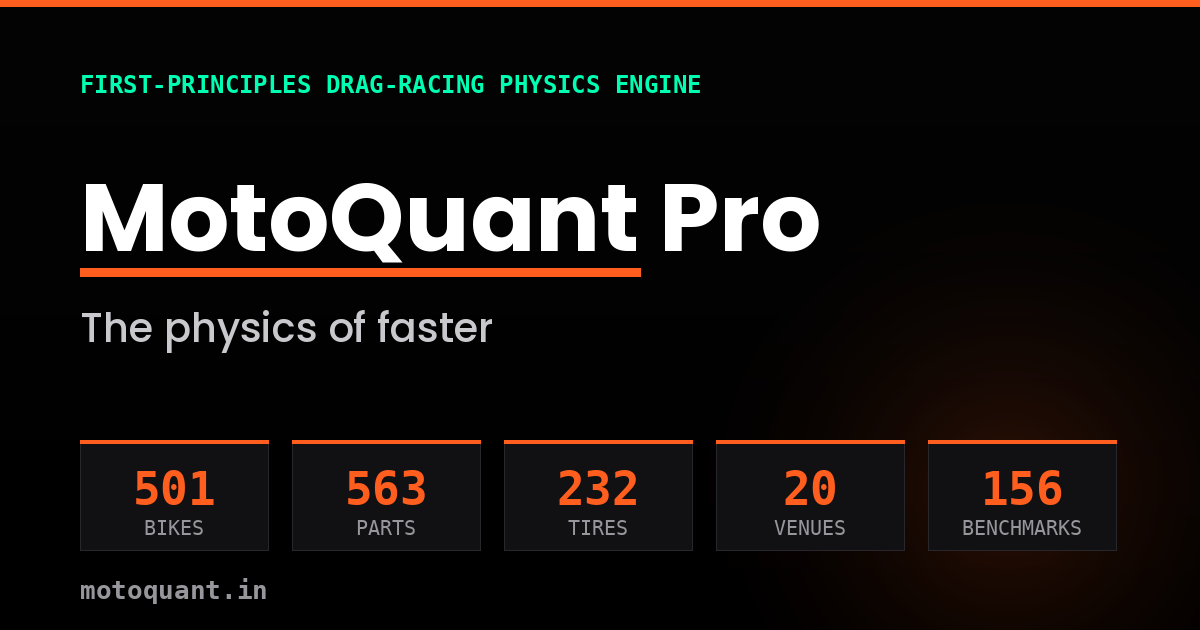
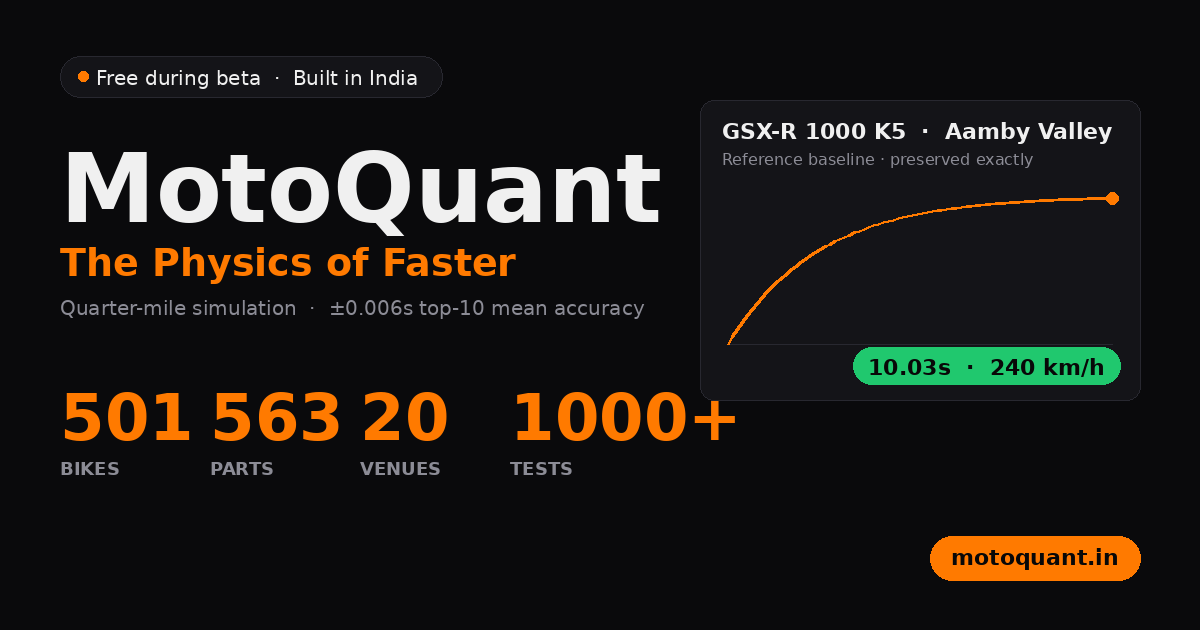
feat(web): commercial-rollout polish — 404/error pages, viral loop, honest OG card
- Branded not-found.js (red-light foul theme, routes lost visitors back into
  the product, Ctrl+K tip) and error.js boundary (honest retry instead of a
  white screen) — the two flagship must-haves that were still Next defaults.
- Skip-to-content link in the root layout + id=main on 13 pages (keyboard/
  screen-reader users skip the fixed chrome in one Tab).
- Leaderboard cold-start: an empty board now shows the three house reference
  sims (the pinned K5/R1/Hayabusa baselines, honestly labeled) with a
  'take P1 from the house' CTA — a first visitor never sees a dead room.
  The first real saved run replaces them (e2e-verified).
- Leaderboard rows now LINK to their public /r/[id] timeslips — the share
  loop previously started only from the save flow; the board is the natural
  entry. Full loop e2e-verified in a browser: quick sim -> Save this run ->
  board row -> public timeslip at /r/1.
- OG share card regenerated with two claim fixes in the generator: the
  'Open Source' pill (false — deliberately hosted-only to protect the IP)
  is now 'Free during beta · Built in India', and the stale ±0.032s top-10
  fallback is the published ±0.006s.

Claude-Session: https://claude.ai/code/session_0134aVjjQdNhGrqEnvho9TL2

diff --git a/web/app/leaderboard/page.js b/web/app/leaderboard/page.js
@@ -23,6 +23,16 @@ import ScoreboardDigits from '../../components/ScoreboardDigits';
 import { Skeleton } from '../../components/Skeleton';
 import { API_URL } from '../../lib/api';
 
+// House reference runs — shown ONLY when the board has no saved runs yet, so
+// a first visitor never sees a dead room. These are the three pinned
+// reference-bike baselines (the same numbers in the footer strip), honestly
+// labeled as the house's own sims. The first real saved run replaces them.
+const HOUSE_RUNS = [
+  { key: 'k5', bike: 'Suzuki GSX-R 1000 K5', year: 2005, et: '10.033', trap: '239.8 km/h' },
+  { key: 'r1', bike: 'Yamaha YZF-R1 4C8', year: 2007, et: '10.286', trap: '236.1 km/h' },
+  { key: 'busa', bike: 'Suzuki Hayabusa Gen1', year: 1999, et: '10.471', trap: '243.0 km/h' },
+];
+
 function fmtDate(iso) {
   if (!iso) return '—';
   try {
@@ -69,7 +79,7 @@ export default function LeaderboardPage() {
   }, [venueId, venues]);
 
   return (
-    <main className="min-h-screen bg-black text-white">
+    <main id="main" className="min-h-screen bg-black text-white">
       <SiteNav />
       <PageHero
         kicker="// leaderboard: saved runs sorted by ET · venue filter armed"
@@ -131,50 +141,89 @@ export default function LeaderboardPage() {
           )}
 
           {!error && rows !== null && rows.length === 0 && (
-            <div className="card text-center py-16 px-6">
+            <div>
               <p className="label-mono text-[11px] mb-3">
-                {venueName} · no saved runs yet
+                {venueName} · no saved runs yet — house reference sims hold the board
               </p>
-              <p className="text-white/70 mb-6">
-                The board is empty — first run takes P1.
-              </p>
-              <Link href="/simulator" className="btn-primary">
-                Run a simulation
-              </Link>
+              <ol className="space-y-2" aria-label="House reference runs">
+                {HOUSE_RUNS.map((r, i) => (
+                  <li
+                    key={r.key}
+                    className={`card flex items-center gap-4 px-4 py-3 opacity-90 ${
+                      i === 0 ? 'border-brand-orange/40 bg-brand-orange/[0.06]' : ''
+                    }`}
+                  >
+                    <span className="w-8 shrink-0 font-mono text-sm text-white/40 text-right">
+                      {i === 0 ? (
+                        <Trophy size={16} className="inline text-brand-orange" aria-label="P1" />
+                      ) : (
+                        `P${i + 1}`
+                      )}
+                    </span>
+                    <div className="min-w-0 flex-1">
+                      <p className="truncate text-sm font-medium">
+                        {r.bike}
+                        <span className="text-white/40"> · {r.year}</span>
+                      </p>
+                      <p className="font-mono text-[10px] tracking-[0.2em] uppercase text-white/35">
+                        MotoQuant reference sim · Aamby Valley · stock
+                      </p>
+                    </div>
+                    <div className="shrink-0 text-right">
+                      <ScoreboardDigits value={r.et} h={22} />
+                      <p className="font-mono text-[10px] tracking-[0.2em] text-white/40 mt-1">
+                        {r.trap}
+                      </p>
+                    </div>
+                  </li>
+                ))}
+              </ol>
+              <div className="card mt-4 text-center py-10 px-6">
+                <p className="text-white/70 mb-5">
+                  Take P1 from the house — run a sim and save it to the board.
+                </p>
+                <Link href="/simulator" className="btn-primary">
+                  Run a simulation
+                </Link>
+              </div>
             </div>
           )}
 
           {!error && rows !== null && rows.length > 0 && (
             <ol className="space-y-2">
               {rows.map((r, i) => (
-                <li
-                  key={r.id}
-                  className={`card card-hover flex items-center gap-4 px-4 py-3 ${
-                    i === 0 ? 'border-brand-orange/40 bg-brand-orange/[0.06]' : ''
-                  }`}
-                >
-                  <span className="w-8 shrink-0 font-mono text-sm text-white/40 text-right">
-                    {i === 0 ? (
-                      <Trophy size={16} className="inline text-brand-orange" aria-label="P1" />
-                    ) : (
-                      `P${i + 1}`
-                    )}
-                  </span>
-                  <div className="min-w-0 flex-1">
-                    <p className="truncate text-sm font-medium">
-                      {(r.manufacturer || '—') + ' ' + (r.model || '')}
-                      {r.year ? <span className="text-white/40"> · {r.year}</span> : null}
-                    </p>
-                    <p className="font-mono text-[10px] tracking-[0.2em] uppercase text-white/35">
-                      {r.venue || 'venue —'} · {fmtDate(r.created_at)}
-                    </p>
-                  </div>
-                  <div className="shrink-0 text-right">
-                    <ScoreboardDigits value={Number(r.et_quarter_s).toFixed(3)} h={22} />
-                    <p className="font-mono text-[10px] tracking-[0.2em] text-white/40 mt-1">
-                      {r.trap_speed_kmh ? `${Number(r.trap_speed_kmh).toFixed(1)} km/h` : ''}
-                    </p>
-                  </div>
+                <li key={r.id}>
+                  {/* Whole row links to the run's public timeslip — the share
+                      loop starts here, not just from the save flow. */}
+                  <Link
+                    href={`/r/${r.id}`}
+                    className={`card card-hover flex items-center gap-4 px-4 py-3 ${
+                      i === 0 ? 'border-brand-orange/40 bg-brand-orange/[0.06]' : ''
+                    }`}
+                  >
+                    <span className="w-8 shrink-0 font-mono text-sm text-white/40 text-right">
+                      {i === 0 ? (
+                        <Trophy size={16} className="inline text-brand-orange" aria-label="P1" />
+                      ) : (
+                        `P${i + 1}`
+                      )}
+                    </span>
+                    <div className="min-w-0 flex-1">
+                      <p className="truncate text-sm font-medium">
+                        {(r.manufacturer || '—') + ' ' + (r.model || '')}
+                        {r.year ? <span className="text-white/40"> · {r.year}</span> : null}
+                      </p>
+                      <p className="font-mono text-[10px] tracking-[0.2em] uppercase text-white/35">
+                        {r.venue || 'venue —'} · {fmtDate(r.created_at)} · view timeslip →
+                      </p>
+                    </div>
+                    <div className="shrink-0 text-right">
+                      <ScoreboardDigits value={Number(r.et_quarter_s).toFixed(3)} h={22} />
+                      <p className="font-mono text-[10px] tracking-[0.2em] text-white/40 mt-1">
+                        {r.trap_speed_kmh ? `${Number(r.trap_speed_kmh).toFixed(1)} km/h` : ''}
+                      </p>
+                    </div>
+                  </Link>
                 </li>
               ))}
             </ol>

diff --git a/web/app/not-found.js b/web/app/not-found.js
@@ -1,0 +1,55 @@
+import Link from 'next/link';
+import SiteNav from '../components/SiteNav';
+import SiteFooter from '../components/SiteFooter';
+import CodeComment from '../components/CodeComment';
+
+export const metadata = {
+  title: '404 — Off the racing line | MotoQuant Pro',
+  robots: { index: false },
+};
+
+/**
+ * Branded 404 (Cockpit v3). A red-light foul, not a dead end: the page
+ * routes lost visitors straight back into the product. Server component —
+ * zero client JS beyond the shared chrome.
+ */
+export default function NotFound() {
+  return (
+    <div className="min-h-screen bg-black text-white antialiased flex flex-col">
+      <SiteNav />
+      <main className="flex-1 flex items-center justify-center px-6 pt-16">
+        <div className="max-w-xl w-full text-center py-24">
+          <CodeComment center>run aborted · page not staged</CodeComment>
+          <div className="mt-6 flex items-center justify-center gap-3" aria-hidden="true">
+            {/* foul lights — two red staging lamps */}
+            <span className="h-4 w-4 rounded-full bg-brand-red shadow-lamp-red" />
+            <span className="h-4 w-4 rounded-full bg-brand-red shadow-lamp-red" />
+          </div>
+          <h1 className="mt-6 font-display font-bold tracking-tight text-white">
+            <span className="block text-7xl md:text-8xl text-gradient-orange tabular-nums">404</span>
+            <span className="mt-3 block text-2xl md:text-3xl">Red light — this page fouled.</span>
+          </h1>
+          <p className="mt-4 text-white/60 leading-relaxed">
+            The URL you staged doesn&apos;t exist on this strip. Back the bike up
+            and pick a lane.
+          </p>
+          <div className="mt-8 flex flex-wrap items-center justify-center gap-3">
+            <Link href="/simulator" className="btn-primary">
+              Run the simulator
+            </Link>
+            <Link href="/bikes" className="btn-ghost">
+              Browse 501 bikes
+            </Link>
+            <Link href="/" className="btn-ghost">
+              Home
+            </Link>
+          </div>
+          <p className="label-mono mt-10">
+            tip: press Ctrl+K anywhere to jump to any page or bike
+          </p>
+        </div>
+      </main>
+      <SiteFooter />
+    </div>
+  );
+}

diff --git a/web/app/error.js b/web/app/error.js
@@ -1,0 +1,39 @@
+'use client';
+
+/**
+ * Route error boundary (Cockpit v3). Catches render/runtime errors below
+ * the root layout and offers an honest retry instead of a white screen.
+ * Client component by Next.js convention (receives error + reset).
+ */
+
+import CodeComment from '../components/CodeComment';
+
+export default function Error({ error, reset }) {
+  return (
+    <div className="min-h-screen bg-black text-white antialiased flex items-center justify-center px-6">
+      <div className="max-w-lg w-full text-center py-24">
+        <CodeComment center>engine fault · telemetry interrupted</CodeComment>
+        <h1 className="mt-6 font-display font-bold tracking-tight text-3xl md:text-4xl">
+          Something broke mid-run.
+        </h1>
+        <p className="mt-4 text-white/60 leading-relaxed">
+          The page hit an unexpected error. Your data is fine — restart the run
+          or head back to the pits.
+        </p>
+        {process.env.NODE_ENV !== 'production' && error?.message && (
+          <p className="mt-4 rounded-xl border border-brand-red/30 bg-brand-red/10 px-4 py-3 text-left font-mono text-xs text-brand-red/90 break-words">
+            {String(error.message).slice(0, 300)}
+          </p>
+        )}
+        <div className="mt-8 flex flex-wrap items-center justify-center gap-3">
+          <button type="button" onClick={() => reset()} className="btn-primary">
+            Restart the run
+          </button>
+          <a href="/" className="btn-ghost">
+            Back to the pits
+          </a>
+        </div>
+      </div>
+    </div>
+  );
+}

diff --git a/web/app/layout.js b/web/app/layout.js
@@ -255,6 +255,15 @@ export default function RootLayout({ children }) {
         <link rel="sitemap" type="application/xml" href="/sitemap.xml" />
       </head>
       <body className="font-sans">
+        {/* Keyboard/screen-reader users skip the fixed chrome in one Tab. The
+            target id lives on each page's <main>; pages without one still get
+            harmless anchor behavior. */}
+        <a
+          href="#main"
+          className="sr-only focus:not-sr-only focus:fixed focus:left-4 focus:top-4 focus:z-[200] focus:rounded-xl focus:bg-brand-orange focus:px-4 focus:py-2 focus:font-display focus:text-sm focus:font-bold focus:text-black"
+        >
+          Skip to content
+        </a>
         {/* Three site-wide JSON-LD blocks. Keeping them in <body> (rather than
             <head>) is equivalent per the schema.org + Google guidance, and
             lets us render them as React children without <Script> wrappers. */}

diff --git a/web/app/blog/how-the-motoquant-physics-engine-works/page.js b/web/app/blog/how-the-motoquant-physics-engine-works/page.js
@@ -242,7 +242,7 @@ export default function Page() {
       <SiteNav />
       <script type="application/ld+json" dangerouslySetInnerHTML={{ __html: JSON.stringify(articleSchema) }} />
 
-      <main className="max-w-3xl mx-auto px-6 pt-32 pb-12">
+      <main id="main" className="max-w-3xl mx-auto px-6 pt-32 pb-12">
         <Link href="/blog" className="text-brand-accent text-sm font-mono mb-6 inline-block hover:text-brand-orange transition-colors">
           ← back to blog
         </Link>

diff --git a/web/app/login/page.js b/web/app/login/page.js
@@ -170,7 +170,7 @@ function LoginPageInner() {
   return (
     <div className="min-h-screen bg-black text-white">
       <SiteNav />
-      <main className="flex min-h-[calc(100vh-4rem)] items-center justify-center px-4 pt-20 pb-12">
+      <main id="main" className="flex min-h-[calc(100vh-4rem)] items-center justify-center px-4 pt-20 pb-12">
         <div className="relative w-full max-w-sm space-y-8">
           <div
             aria-hidden="true"

diff --git a/web/app/terms/page.js b/web/app/terms/page.js
@@ -28,7 +28,7 @@ export default function TermsPage() {
         <p className="label-mono">Last updated · 2 July 2026</p>
       </PageHero>
 
-      <main className="pt-10 pb-20 px-4 sm:px-6">
+      <main id="main" className="pt-10 pb-20 px-4 sm:px-6">
         <div className="mx-auto max-w-3xl">
         <p className="text-white/80 text-sm leading-relaxed">
           These Terms of Service ("Terms") govern your access to and use of MotoQuant Pro

diff --git a/web/app/privacy/page.js b/web/app/privacy/page.js
@@ -27,7 +27,7 @@ export default function PrivacyPage() {
         <p className="label-mono">Last updated · 24 April 2026</p>
       </PageHero>
 
-      <main className="pt-10 pb-20 px-4 sm:px-6">
+      <main id="main" className="pt-10 pb-20 px-4 sm:px-6">
         <div className="mx-auto max-w-3xl">
         <p className="text-white/80 text-sm leading-relaxed">
           MotoQuant Pro ("we", "us") is committed to protecting your personal data.

diff --git a/web/app/blog/page.js b/web/app/blog/page.js
@@ -754,7 +754,7 @@ export default function BlogIndexPage() {
         sub="Technical deep-dives on motorcycle physics, tuning strategy, and data analysis. Written for the Indian drag racing community."
       />
 
-      <main className="pb-24 px-6">
+      <main id="main" className="pb-24 px-6">
         <div className="max-w-5xl mx-auto">
           <FeaturedPostCard post={featured} />
 

diff --git a/web/app/pricing/page.js b/web/app/pricing/page.js
@@ -221,7 +221,7 @@ function PricingPageInner() {
               </div>
       </PageHero>
 
-      <main className="pb-20 px-4 sm:px-6">
+      <main id="main" className="pb-20 px-4 sm:px-6">
         <div className="mx-auto max-w-6xl">
           {checkoutError && (
             <div className="mb-8 card border-brand-red/40 bg-brand-red/10 px-5 py-4 text-sm text-brand-red/90 text-center">

diff --git a/web/app/bikes/page.js b/web/app/bikes/page.js
@@ -231,7 +231,7 @@ export default function BikesPage() {
         </div>
       </PageHero>
 
-      <main className="pb-16 px-4 sm:px-6">
+      <main id="main" className="pb-16 px-4 sm:px-6">
         <div className="max-w-6xl mx-auto">
           {/* Filters — sticky below nav */}
           <div className="sticky top-16 z-40 card bg-ink-1/90 backdrop-blur-xl p-4 mb-6">

diff --git a/web/app/account/page.js b/web/app/account/page.js
@@ -222,7 +222,7 @@ export default function AccountPage() {
     return (
       <div className="min-h-screen bg-black text-white">
         <SiteNav />
-        <main className="pt-32 pb-20 px-4 sm:px-6">
+        <main id="main" className="pt-32 pb-20 px-4 sm:px-6">
           <div
             className="mx-auto max-w-3xl space-y-6"
             aria-busy="true"
